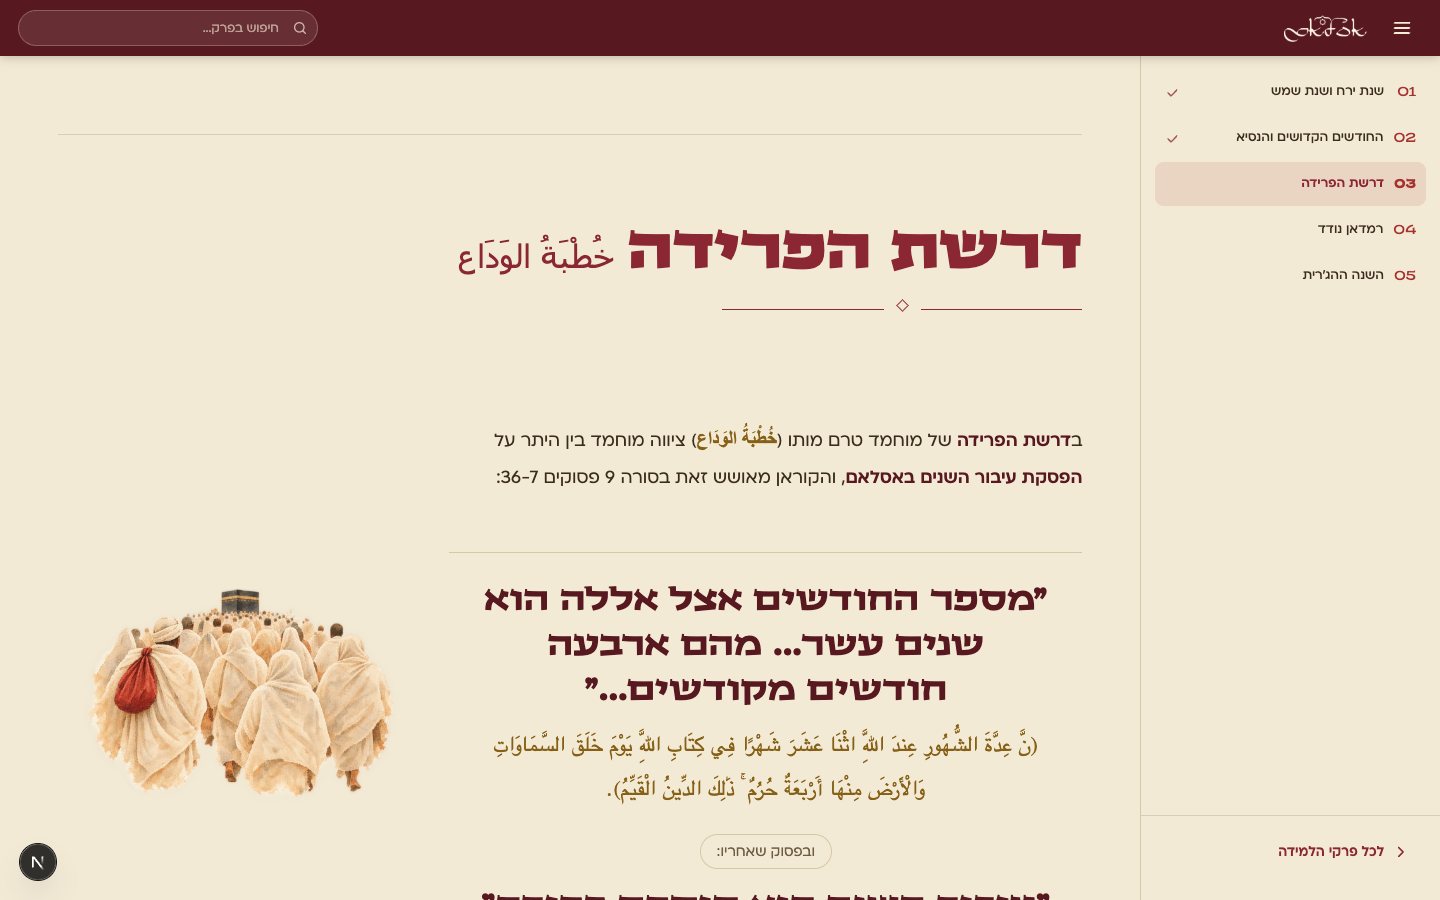
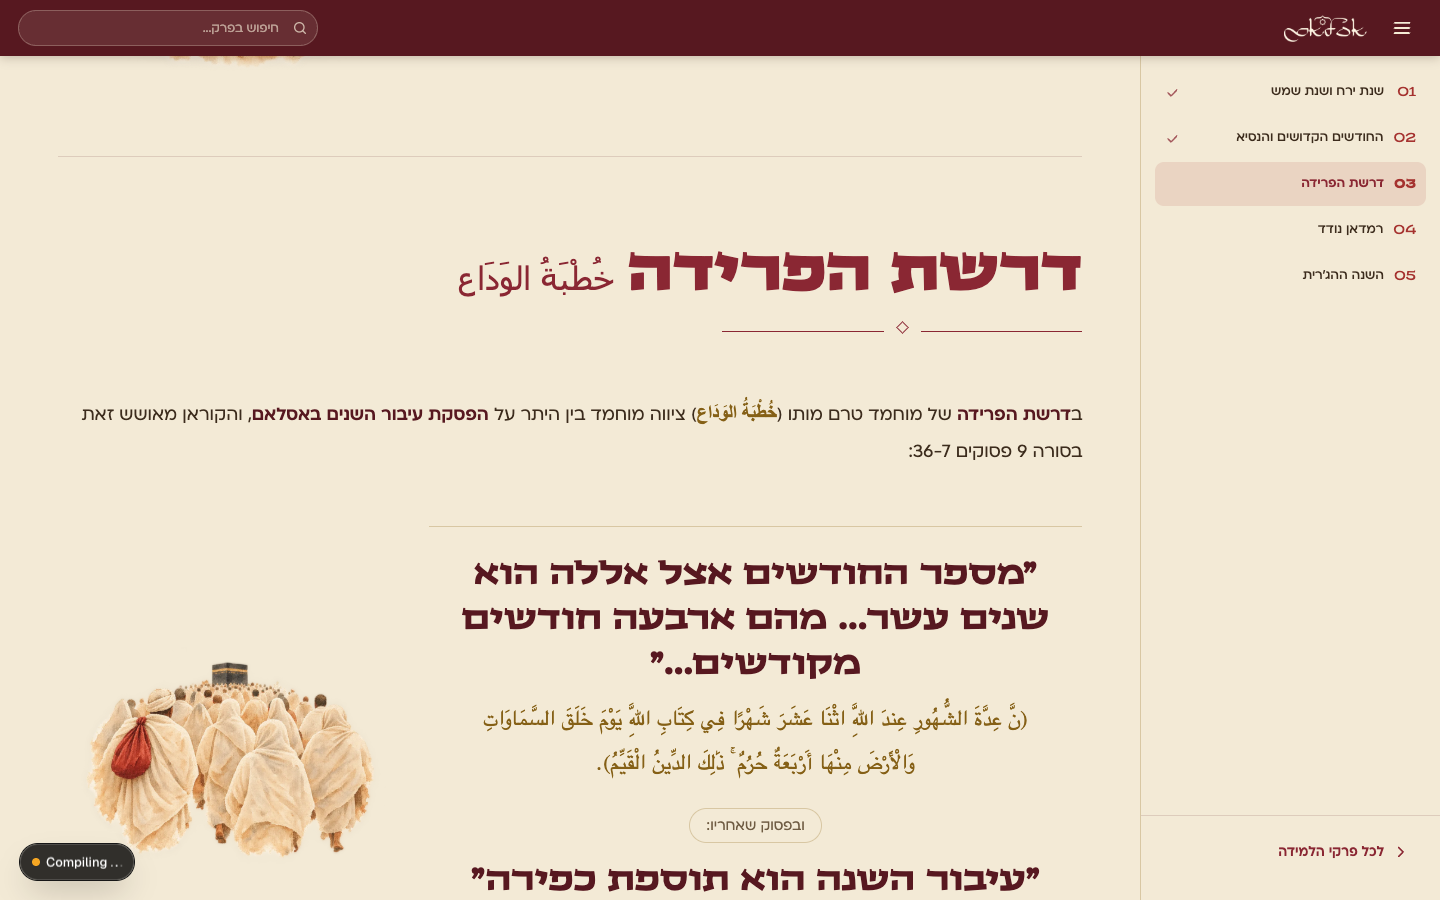
פרק 7 · יישורים: כל ריצה בקצה הקריאה, כל מנגנון 880 ממורכז
נמדד מול פרק 5 (scripts/ch7-align.mjs). הכרוז יצא מהיפוך — הטקסט התחיל 456px
משמאל לכותרת שלו. הפסקה הפותחת של דרשת הפרידה חזרה לרוחב מלא. האסכולות וגלגל
השנה עברו מ-1025 ל-880 ממורכז, כמו שאר המנגנונים. הפירוש ברשימת החודשים נשבר
כטקסט ולא קופץ לשורה משלו.

diff --git a/web/src/styles/chapter7-article.css b/web/src/styles/chapter7-article.css
@@ -112,8 +112,8 @@
 }
 
 /* ---- 03 · the farewell sermon: the verses, and the pilgrims beside them ---- */
-.ch7-farewell{display:grid;grid-template-columns:minmax(0,1fr) clamp(260px,34%,420px);gap:clamp(20px,3vw,44px);align-items:center}
-.ch7-farewell-copy > .ch7-lead{margin-top:var(--flow-lead)!important}
+.ch7-farewell{display:grid;grid-template-columns:minmax(0,1fr) clamp(240px,32%,380px);gap:clamp(20px,3vw,44px);align-items:center;margin-top:var(--flow-lead)}
+.ch7-farewell .ch7-verses{margin-top:0}
 .ch7-farewell-art img{display:block;width:100%;height:auto}
 @media (max-width:900px){ .ch7-farewell{grid-template-columns:1fr} .ch7-farewell-art{display:none} }
 .ch7-verses{width:100%;margin-top:var(--flow-lead)}
@@ -124,14 +124,14 @@
 .ch7-verses-join{margin:22px auto 16px!important;width:fit-content;padding:2px 16px;border-radius:999px;border:1px solid var(--edge);font-size:16px!important;color:var(--muted)!important}
 
 /* ---- 04 · the two schools: two equal cards (rules 36, 51) ---- */
-.ch7-pair{display:grid;grid-template-columns:1fr 1fr;align-items:stretch;gap:16px;margin-top:var(--flow-lead)}
+.ch7-pair{display:grid;grid-template-columns:1fr 1fr;align-items:stretch;gap:16px;width:min(880px,100%);margin:var(--flow-lead) auto 0}
 .ch7-card{background:var(--paper);border:1px solid var(--edge);border-radius:16px;padding:20px 24px}
 .ch7-card h4{font-family:var(--font-heading);font-weight:700;font-size:var(--sub);color:var(--maroon);margin:0 0 8px}
 @media (max-width:760px){ .ch7-pair{grid-template-columns:1fr} }
 
 /* ---- 05 · the wheel of the year ---- */
-.ch7-wheel{width:100%}
-.ch7-wheel-in{display:grid;grid-template-columns:minmax(0,1.05fr) minmax(0,1fr);gap:clamp(20px,3vw,44px);align-items:center}
+.ch7-wheel{width:min(880px,100%)}
+.ch7-wheel-in{display:grid;grid-template-columns:minmax(0,1fr) minmax(0,1fr);gap:clamp(20px,3vw,36px);align-items:center}
 .ch7-wheel-plate{position:relative;aspect-ratio:1;width:100%;max-width:560px;justify-self:center}
 .ch7-wheel-plate img{position:absolute;inset:0;width:100%;height:100%;border-radius:14px;box-shadow:var(--shadow)}
 .ch7-md{all:unset;box-sizing:border-box;cursor:pointer;position:absolute;width:15.5%;aspect-ratio:1;transform:translate(-50%,-50%);
@@ -149,19 +149,20 @@
 .ch7-wheel-hub span{font-size:clamp(10px,.95vw,13px);line-height:1.25;color:var(--gold-text)}
 .ch7-wheel-hub .ch7-wheel-num{font-family:var(--font-heading);font-weight:700;color:var(--stamp)}
 .ch7-months ol{list-style:none;margin:0;padding:0;display:grid;gap:2px}
-.ch7-months li button{all:unset;box-sizing:border-box;cursor:pointer;width:100%;display:flex;align-items:baseline;gap:8px;flex-wrap:wrap;
+.ch7-months li button{all:unset;box-sizing:border-box;cursor:pointer;width:100%;display:block;line-height:1.5;
   padding:6px 12px;border-radius:9px;transition:background .2s ease}
+.ch7-months li button > * + *{margin-inline-start:8px}
 .ch7-months li button:hover{background:color-mix(in srgb,var(--stamp) 9%,transparent)}
 .ch7-months li button:focus-visible{outline:2px solid var(--maroon);outline-offset:1px}
 .ch7-months li.is-on button{background:color-mix(in srgb,var(--gold-soft) 32%,transparent)}
-.ch7-months-n{min-width:24px;font-family:var(--font-heading);font-weight:700;color:var(--stamp);font-variant-numeric:tabular-nums}
-.ch7-months b{font-family:var(--font-heading);font-weight:700;font-size:19px;color:var(--maroon-deep)}
-.ch7-months-m{font-size:16px;color:var(--muted)}
+.ch7-months-n{display:inline-block;min-width:24px;font-family:var(--font-heading);font-weight:700;color:var(--stamp);font-variant-numeric:tabular-nums}
+.ch7-months b{font-family:var(--font-heading);font-weight:700;font-size:18px;color:var(--maroon-deep)}
+.ch7-months-m{font-size:15px;color:var(--muted)}
 .ch7-months li.is-holy b::after{content:"";display:inline-block;width:9px;height:9px;margin-inline-start:8px;border-radius:50%;
   background:var(--gold);box-shadow:0 0 0 2px var(--panel),0 0 0 3px var(--gold);vertical-align:middle}
 .ch7-legend{display:flex;align-items:center;gap:10px;margin-top:14px!important;font-size:15px!important;color:var(--muted)!important}
 .ch7-legend i{width:9px;height:9px;border-radius:50%;background:var(--gold);box-shadow:0 0 0 2px var(--panel),0 0 0 3px var(--gold)}
-@media (max-width:1100px){ .ch7-wheel-in{grid-template-columns:1fr} }
+@media (max-width:1240px){ .ch7-wheel-in{grid-template-columns:1fr} .ch7-wheel-plate{max-width:520px} }
 
 @media (prefers-reduced-motion:reduce){
   .ch7-days-grid i,.ch7-days-nums .is-gap{animation:none!important;opacity:1;transform:none}

diff --git a/web/src/components/Chapter7.tsx b/web/src/components/Chapter7.tsx
@@ -110,9 +110,9 @@ function Section({ id, className = '', children }: { id: string; className?: str
 }
 
 /** A painting beside the prose — chapter 6's `.bleed-aside`, as chapter 3 uses it. */
-function Aside({ art, flipped, children }: { art: string; flipped?: boolean; children: ReactNode }) {
+function Aside({ art, children }: { art: string; children: ReactNode }) {
   return (
-    <div className={'bleed-aside ch7-aside' + (flipped ? ' is-flipped' : '')}>
+    <div className="bleed-aside ch7-aside">
       <div className="bleed-aside-art" aria-hidden="true">
         {/* eslint-disable-next-line @next/next/no-img-element */}
         <img src={`${A}${art}.webp`} alt="" loading="lazy" decoding="async" />
@@ -553,7 +553,12 @@ export default function Chapter7() {
                   <T refs={['§1.c']} />
                 </Aside>
                 <Env id="nasi" sectionId="sacred" />
-                <Aside art="cut-herald" flipped>
+                {/* NOT FLIPPED. The mirrored aside put this run on the outer (left) edge while
+                    its sub-heading stayed on the reading edge — the words began 456px away
+                    from their own heading, and the flip's one-line lift pressed the first line
+                    to 3px under it. Measured 11.10; every run in the chapter now starts on the
+                    reading edge, under its heading. */}
+                <Aside art="cut-herald">
                   <T refs={['§2.a']} />
                   <T refs={['§2.b']} />
                   <T refs={['§2.c']} />
@@ -563,9 +568,11 @@ export default function Chapter7() {
               {/* ============ 03 · the farewell sermon ============ */}
               <Section id="farewell">
                 <Head id="farewell" />
+                {/* the lead runs the full column like every section's first paragraph; only the
+                    verses share a row with the pilgrims */}
+                <T refs={['§3.a']} className="ch7-lead" />
                 <div className="ch7-farewell">
                   <div className="ch7-farewell-copy">
-                    <T refs={['§3.a']} className="ch7-lead" />
                     <Verses />
                   </div>
                   <figure className="ch7-farewell-art" aria-hidden="true" data-reveal>

diff --git a/concept/chapter7/DECISIONS.md b/concept/chapter7/DECISIONS.md
@@ -67,6 +67,21 @@
   שנים-עשר חודשים; בלי ההחלפה מסך הפרקים היה מציג אחוז שגוי למי שניסתה את המסע.
 - **שינוי שהוכנס לרכיב המשותף `PracticeNav` בשביל המסע הוחזר** — הרכיב זהה למה שהיה.
 
+## סבב יישורים (11.10) — נמדד מול פרק 5, לא בעין
+
+`web/scripts/ch7-align.mjs [רוחב]` מדפיס לכל בלוק את הרווח מהבלוק הקודם ואת המרחק
+מקצה הקריאה ומהקצה החיצוני, בפרק 5 ובפרק 7. הקצב האנכי כבר היה זהה (14/56/86).
+ארבע סטיות נמצאו ותוקנו:
+1. **הכרוז היה `is-flipped`** — הטקסט התחיל 456px משמאל לכותרת המשנה שלו, וההרמה
+   בשורה אחת של המכשיר הצמידה את השורה הראשונה 3px מתחתיה. **אין עוד היפוך בפרק**:
+   כל ריצה מתחילה בקצה הקריאה, מתחת לכותרת שלה.
+2. **דרשת הפרידה** — הפסקה הפותחת ישבה בעמודה הצרה שליד הציור (104px מתחת לכותרת
+   במקום 56), והפסוקים היו ממורכזים בעמודה ולא בעמוד. הפסקה ברוחב מלא; רק הפסוקים
+   חולקים שורה עם עולי הרגל.
+3. **שתי האסכולות** — 1025px כשכל מנגנון אחר 880 ממורכז. עכשיו 880.
+4. **גלגל השנה** — אותו דבר, 880. והפירוש ברשימה נשבר עכשיו כטקסט רגיל ולא קופץ
+   לשורה משלו.
+
 ## שערים
 
 ```
